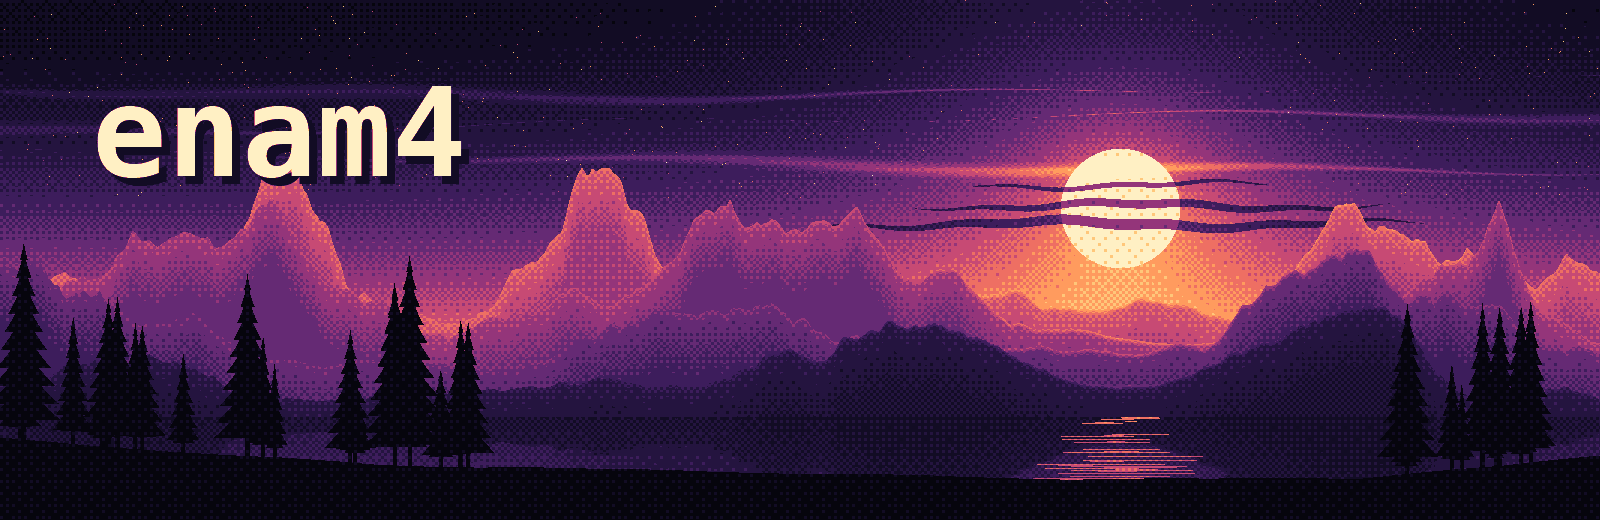
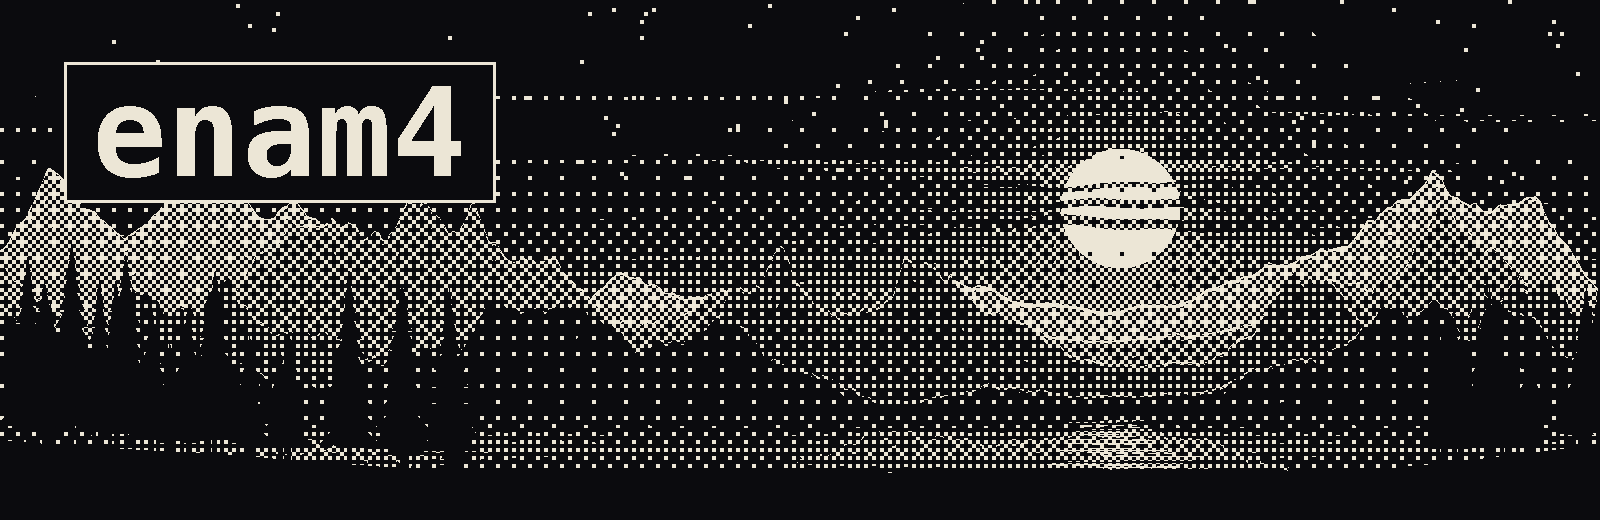
Dither the header like the project cards, trim profile text
- Header: same treatment as the charts and cards (two tones, 8x8 Bayer,
  4 px cells), with the name on a solid plate.
- README: drop the tagline and the note on how the visuals are made.

diff --git a/make_header.py b/make_header.py
@@ -1,22 +1,20 @@
-"""Builds assets/header.png: a procedurally painted dusk landscape, ordered-dithered into a small
-colour ramp, with the name set on top.
+"""Builds assets/header.png: a procedurally painted dusk landscape with the name set on top.
 
-The scene is computed as a single brightness field (0 = darkest, 1 = brightest). Each pixel is then
-dithered between the two nearest colours of RAMP with an 8x8 Bayer matrix, so every gradient in
-the sky, haze and water turns into a dither pattern."""
+The scene is computed as a single brightness field (0 = darkest, 1 = brightest), then dithered the
+same way as the project charts and cards: two tones (near-black and one ink colour), an 8x8 Bayer
+matrix and 4 px cells. Brightness becomes the density of ink."""
 import os
 import numpy as np
 from PIL import Image, ImageDraw, ImageFont
 import matplotlib
 
 W, H = 1600, 520
-CELL = 3                       # dither cell in px
+CELL = 4                       # dither cell in px, same as the project charts
 SEED = 4
 NAME = "enam4"
 
-# dusk ramp, darkest to brightest
-RAMP = ["#06050d", "#120c24", "#24143f", "#3d1d5c", "#652a74", "#94357a", "#c74a74",
-        "#ee6f63", "#ff9b5e", "#ffc77a", "#fff0c4"]
+# two tones, like every project palette: background and ink
+RAMP = ["#0b0b0e", "#ece6d6"]
 
 rng = np.random.default_rng(SEED)
 y, x = np.mgrid[0:H, 0:W].astype(float)
@@ -43,14 +41,15 @@ HORIZON = 0.66                 # where the far haze meets the lake
 SUN = (0.70, 0.40, 0.115)      # centre x, centre y, radius (y and r as fractions of H)
 
 # ---------------------------------------------------------------- sky
-v = 0.06 + 0.62 * np.clip(Y / HORIZON, 0, 1) ** 1.8
+v = 0.48 * np.clip(Y / HORIZON, 0, 1) ** 2.6
 dx, dy = (X - SUN[0]) * W / H, Y - SUN[1]
 d = np.sqrt(dx ** 2 + dy ** 2)
-v += 0.42 * np.exp(-d / 0.20) + 0.18 * np.exp(-d / 0.55)
+v += 0.45 * np.exp(-d / 0.17) + 0.12 * np.exp(-d / 0.45)
 
 # stars in the upper sky, away from the glow
-stars = (rng.random((H, W)) < 0.0016) & (Y < 0.38) & (d > 0.35)
-v = np.where(stars, np.maximum(v, 0.55 + 0.35 * rng.random((H, W))), v)
+star_cells = rng.random((H // CELL + 1, W // CELL + 1)) < 0.006
+stars = star_cells[(y // CELL).astype(int), (x // CELL).astype(int)] & (Y < 0.36) & (d > 0.35)
+v = np.where(stars, 1.0, v)
 
 # sun disc, cut by thin cloud bands
 v = np.where(d < SUN[2], 0.99, v)
@@ -75,10 +74,10 @@ def ridged(n, octaves=8, persistence=0.52, base=3):
 
 
 layers = [  # base height, amplitude, roughness, brightness, haze
-    (0.62, 0.30, 0.50, 0.52, 0.14),
-    (0.66, 0.28, 0.54, 0.40, 0.14),
-    (0.71, 0.26, 0.56, 0.30, 0.12),
-    (0.77, 0.20, 0.58, 0.15, 0.08),
+    (0.62, 0.30, 0.50, 0.60, 0.06),
+    (0.66, 0.28, 0.54, 0.42, 0.06),
+    (0.71, 0.26, 0.56, 0.26, 0.05),
+    (0.77, 0.20, 0.58, 0.11, 0.04),
 ]
 for base, amp, rough, bright, haze in layers:
     notch = 1 - 0.85 * np.exp(-((X[0] - SUN[0]) / 0.10) ** 2)   # a valley for the sun to set into
@@ -87,7 +86,8 @@ for base, amp, rough, bright, haze in layers:
     depth = np.clip((Y - ridge[None, :]) / 0.12, 0, 1)
     shade = bright + haze * (1 - depth)                     # lit ridgeline, darker below
     rim = np.exp(-np.abs(X - SUN[0]) / 0.18) * np.exp(-((Y - ridge[None, :]) * H / 3.0) ** 2)
-    v = np.where(below, shade + 0.18 * rim, v)
+    edge = np.exp(-((Y - ridge[None, :]) * H / 2.2) ** 2)   # thin lit ridgeline so each range reads
+    v = np.where(below, shade + 0.30 * rim + 0.30 * edge, v)
     v += 0.10 * haze * np.exp(-((Y - (base + 0.02)) / 0.012) ** 2) * ~below   # valley mist
 
 # ---------------------------------------------------------------- lake with a broken reflection
@@ -115,8 +115,11 @@ for px, ph in trees:
     half = pw * t * saw
     trunk = (np.abs(X - px) * W / H < 0.004) & (t > 0.85)
     fg |= ((np.abs(X - px) * W / H < half) & (Y > top) & (t < 0.9)) | trunk
-v = np.where(fg, 0.015, v)
+v += 0.30 * np.exp(-((Y - 0.86) / 0.035) ** 2) * (0.6 + 0.4 * np.sin(X * 7) ** 2)   # shoreline mist
+v = np.where(fg, 0.0, v)
 v = np.clip(v, 0, 1)
+# tone curve for two tones: shadows drop to pure background, only the light carries ink
+v = np.clip((v - 0.05) / 0.95, 0, 1) ** 1.15
 
 # ---------------------------------------------------------------- dither into the ramp
 BAYER = np.array([[0, 32, 8, 40, 2, 34, 10, 42], [48, 16, 56, 24, 50, 18, 58, 26],
@@ -135,7 +138,8 @@ font_path = os.path.join(matplotlib.get_data_path(), "fonts", "ttf", "DejaVuSans
 font = ImageFont.truetype(font_path, 124)
 draw = ImageDraw.Draw(img)
 tx, ty = 92, 60
-draw.text((tx + 8, ty + 8), NAME, font=font, fill=RAMP[1])  # hard shadow
+l, t, r, b = draw.textbbox((tx, ty), NAME, font=font)
+draw.rectangle((l - 28, t - 24, r + 28, b + 24), fill=RAMP[0], outline=RAMP[-1], width=3)
 draw.text((tx, ty), NAME, font=font, fill=RAMP[-1])
 pal = Image.new("P", (1, 1))
 pal.putpalette([c for row in cols.tolist() for c in row] + [0] * (768 - 3 * len(RAMP)))

diff --git a/README.md b/README.md
@@ -1,7 +1,5 @@
 <img alt="enam4" src="assets/header.png">
 
-<sub>░▒▓ small cpu-only interpretability experiments on qwen2.5, plus tools and agent skills · one dither palette per project · <a href="https://erastnam.com/">erastnam.com</a> ▓▒░</sub>
-
 ## ░ interpretability experiments
 
 Five small experiments on Qwen2.5 (0.5B and 1.5B), each run end to end on a CPU, with controls, raw outputs and the code to rebuild every chart.
@@ -35,7 +33,3 @@ Five small experiments on Qwen2.5 (0.5B and 1.5B), each run end to end on a CPU,
 <a href="https://github.com/enam4/KBsearch"><img alt="KBsearch" src="assets/cards/KBsearch.png" width="49%"></a>
 <a href="https://github.com/enam4/iweb"><img alt="iweb" src="assets/cards/iweb.png" width="49%"></a>
 <a href="https://github.com/enam4/FileTree"><img alt="FileTree" src="assets/cards/FileTree.png" width="49%"></a>
-
-## ░ how the visuals are made
-
-Every chart and card is a matplotlib figure drawn without anti-aliasing, then dithered with an 8×8 Bayer matrix in its project's palette. Categories differ by dither density and direct labels rather than by hue. In each experiment repo the style lives in `figstyle.py` and `make_figures.py` rebuilds every chart from the committed results. Here, `make_header.py` and `make_cards.py` build the header and the tool cards.
